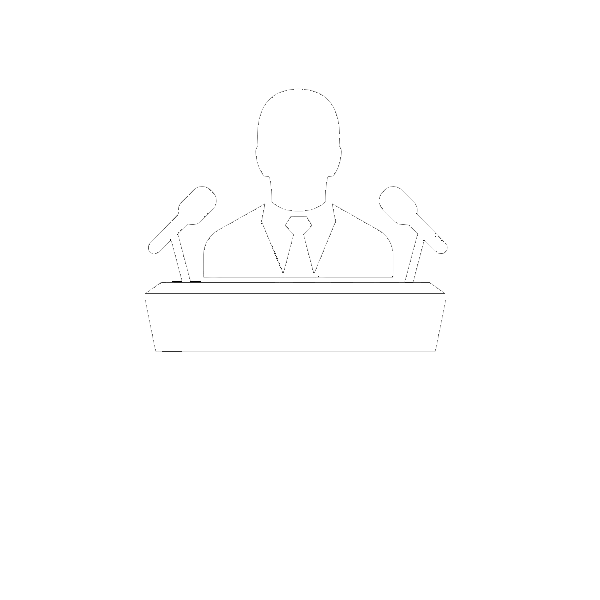
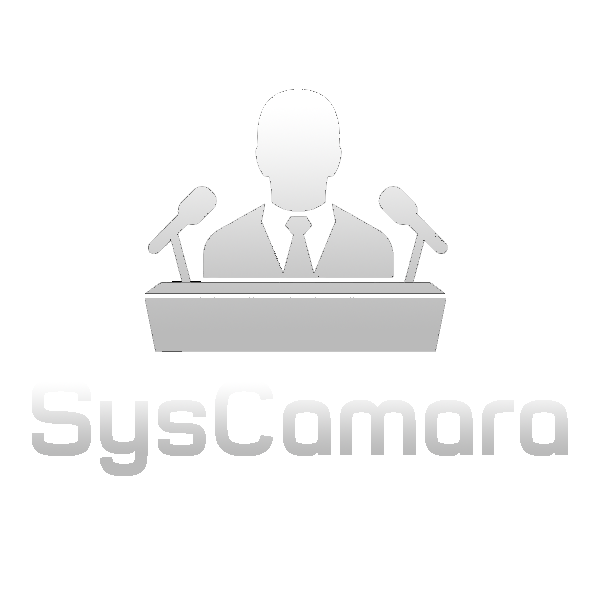
Alteração na pagina principal e assinatura

Changed region(s): [[0.24, 0.3, 0.75, 0.6], [0.03, 0.66, 0.96, 0.81]]

diff --git a/src/components/CenaLogin.js b/src/components/CenaLogin.js
@@ -119,8 +119,8 @@ export default class CenaLogin extends Component{
 
                 <View style={styles.containerBarra}>
                     <StatusBar backgroundColor='black'/>
-                    <BarraNavegacao titulo='SysCamara' corDeFundo='#004466' />
-                    <Image source={require('../img/SysCamara.png')} style={{width: 200, height: 200, marginTop: 60}}/>
+                    {/*<BarraNavegacao titulo='SysCamara' corDeFundo='#004466' />*/}
+                    <Image source={require('../img/SysCamara.png')} style={{width: 200, height: 200, marginTop: 100}}/>
                 </View>
                 <View style={styles.containerLogin}>
                     <View style={styles.containerInputs}>
@@ -144,7 +144,7 @@ export default class CenaLogin extends Component{
                         <TouchableHighlight onPress={this.signUp} style={[styles.loginButton, styles.button]} >
                             <Text style={styles.textButton}>Novo Cadastro</Text>
                         </TouchableHighlight>*/}
-
+                        <Text style={{fontSize: 14, color: '#d9d9d9', marginLeft: 15, marginRight: 15, textAlign: 'center'}}>Escolha abaixo a rede social que deseja utilizar para efetuar o login:</Text>
                         <TouchableHighlight onPress={this._fbAuth} style={[styles.button, {marginTop: 20, height: 40, backgroundColor: '#3b5998'}]} >
                              <View style={{alignSelf: 'center', alignItems: 'center'}}>
                                 <Icon
@@ -157,6 +157,7 @@ export default class CenaLogin extends Component{
                                 </Icon>
                             </View> 
                         </TouchableHighlight>
+                        <Text style={{fontSize: 12, color: '#007399', marginLeft: 15, marginRight: 15, textAlign: 'center', fontStyle: 'italic'}}>O aplicativo não postará nada em suas redes sociais sem a sua autorização.</Text>
                     </View>
                 </View>
             </Image>
